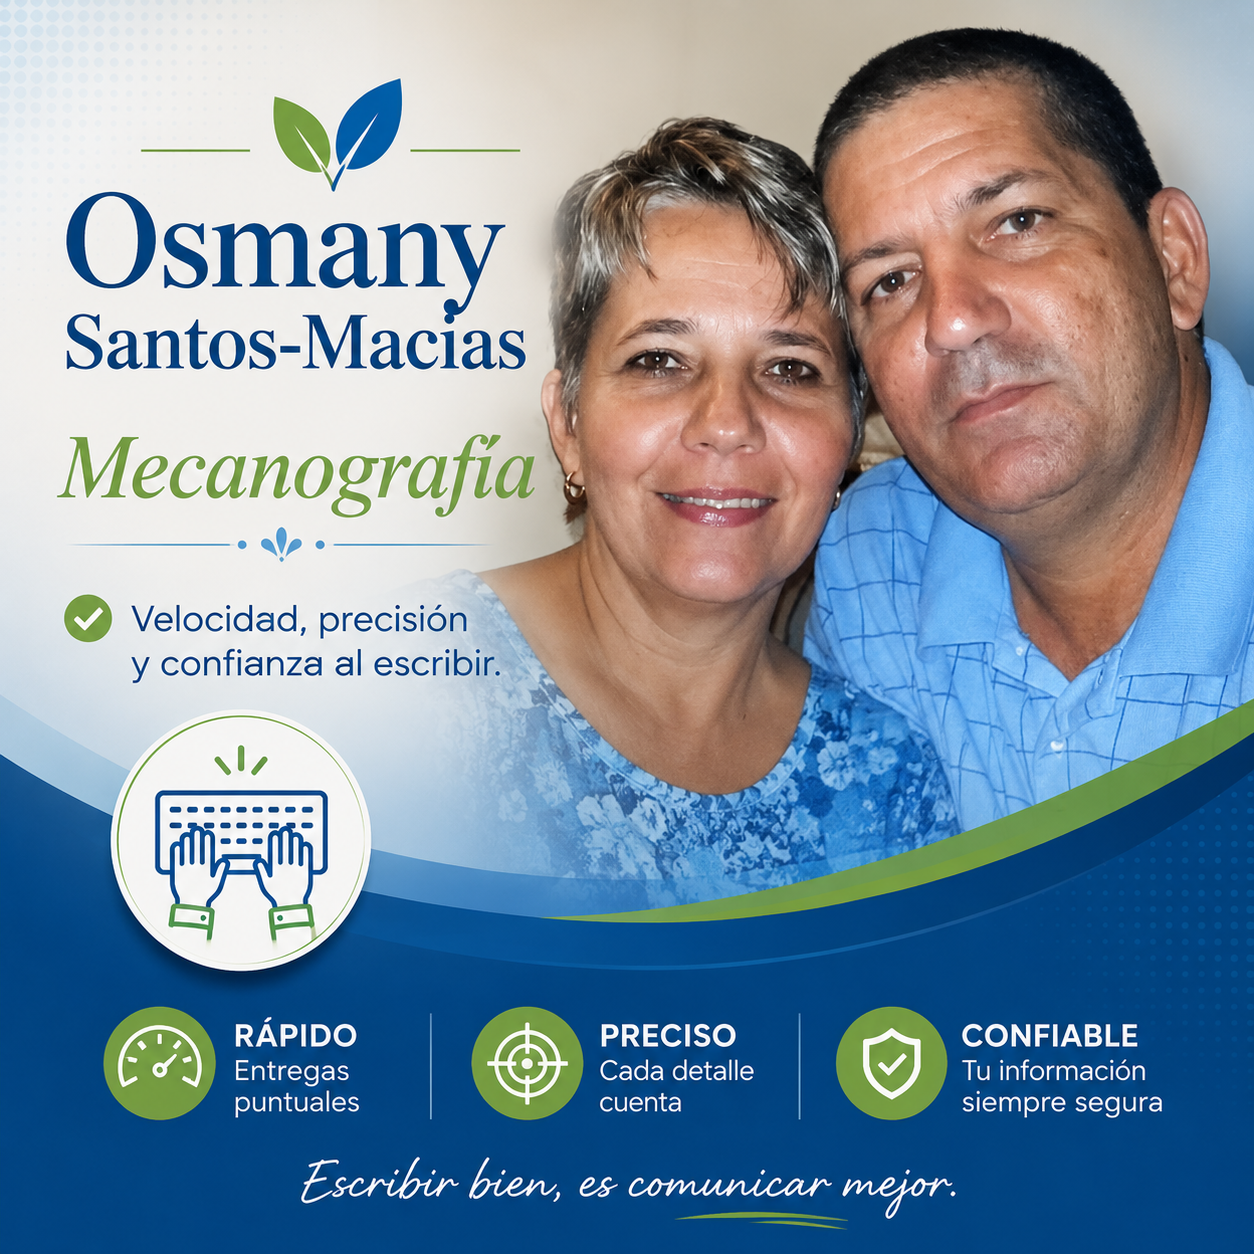
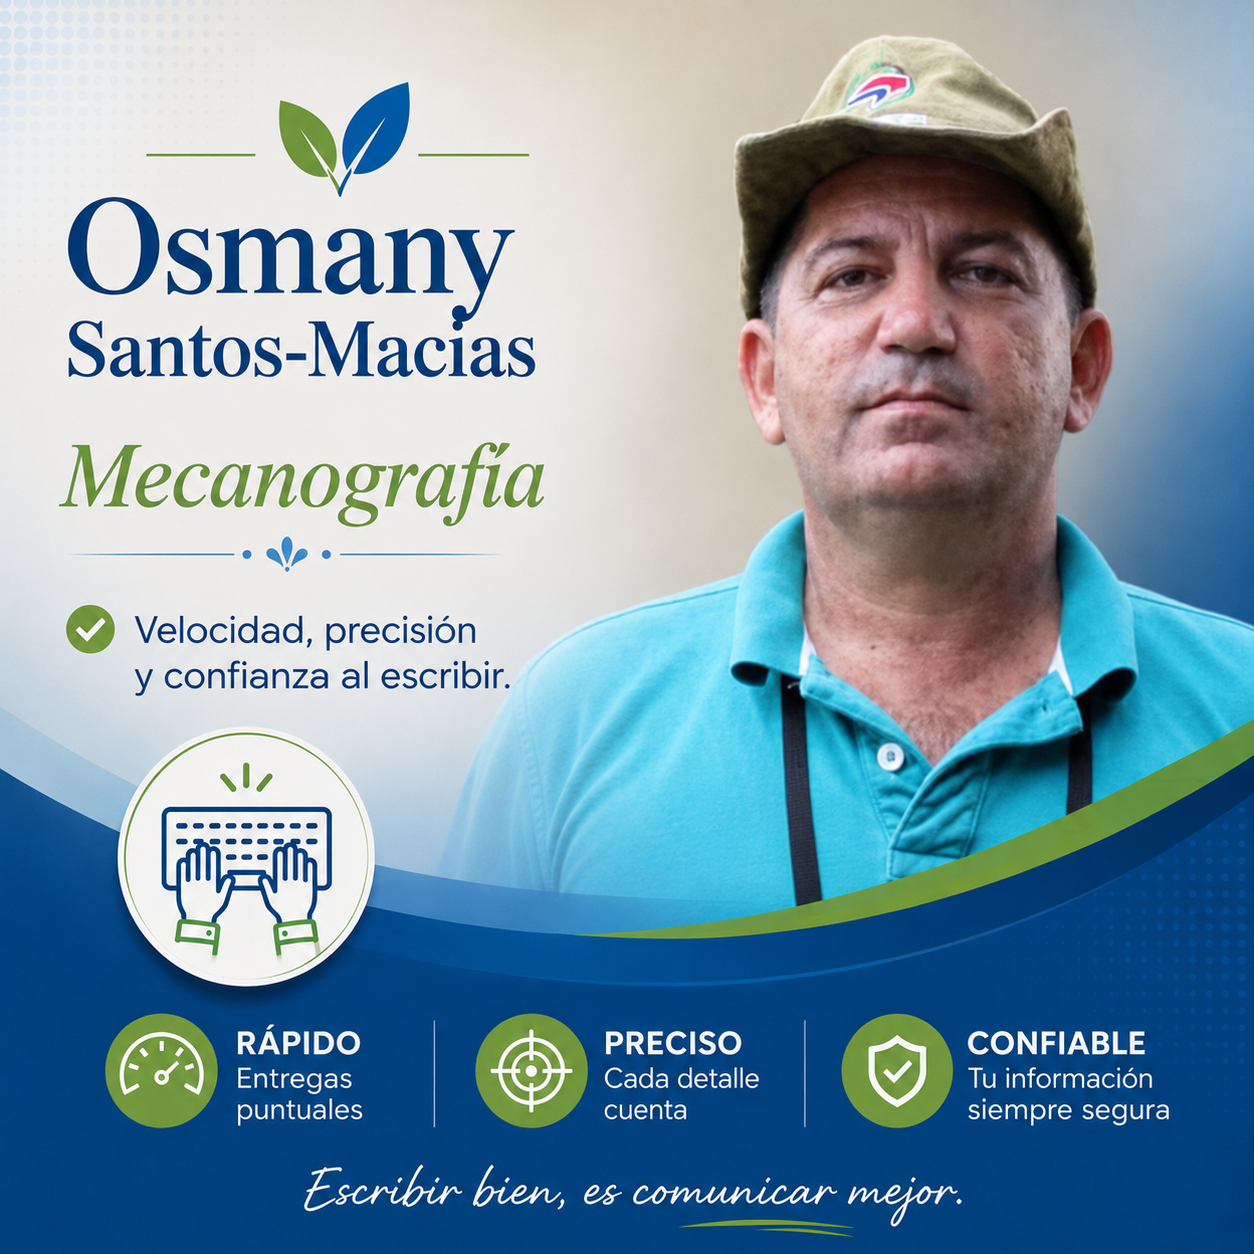
Update website

diff --git a/app/globals.css b/app/globals.css
@@ -25,3 +25,5 @@ main figure{overflow:hidden}main figure img{transition:transform .55s cubic-bezi
 .extra-services{padding-top:52px}.extra-services .detail-list{padding-top:25px}.extra-services .detail-list article{grid-template-columns:90px 1fr;gap:28px}.extra-services .detail-list p{max-width:880px;margin:8px 0}.extra-services .detail-list ul{display:flex;gap:8px;flex-wrap:wrap;list-style:none;padding:0;margin:18px 0 0}.extra-services .detail-list li{background:var(--cream);color:var(--green);padding:8px 11px;font-size:10px;font-weight:700}.extra-request{background:var(--ink);color:white;padding:58px 0}.extra-request .section-head p{color:#b7c2bc}.extra-faq{padding-top:55px}@media(max-width:560px){.extra-services .detail-list article{grid-template-columns:1fr;gap:12px}.extra-request{padding:48px 0}}
 .main-services{padding-top:52px}.main-services .detail-list{padding-top:25px}.main-services .detail-list article{grid-template-columns:90px 1fr;gap:28px}.main-services .detail-list p{max-width:880px;margin:8px 0}.main-services .detail-list ul{display:flex;gap:8px;flex-wrap:wrap;list-style:none;padding:0;margin:18px 0 8px}.main-services .detail-list li{background:var(--cream);color:var(--green);padding:8px 11px;font-size:10px;font-weight:700}.main-services .text-link{display:inline-block;margin-top:18px}.services-choice{background:var(--ink);color:white;padding:58px 0}.services-choice .section-head p{color:#b7c2bc}.services-request{padding-top:55px}.services-links{display:flex;gap:18px;flex-wrap:wrap;margin-top:4px}.services-links .button{margin-top:26px}@media(max-width:560px){.main-services .detail-list article{grid-template-columns:1fr;gap:12px}.services-choice{padding:48px 0}}
 .donation-intro{display:grid;grid-template-columns:.85fr 1.15fr;gap:55px;align-items:center;padding:48px 0}.donation-intro figure{margin:0}.donation-intro img{width:100%;display:block;aspect-ratio:1;object-fit:cover}.donation-intro figcaption{font-size:9px;color:var(--muted);margin-top:8px}.donation-intro h2,.donation-use h2,.donation-methods h2{font:600 clamp(40px,5vw,58px)/.98 var(--font-editorial);margin:16px 0}.donation-intro p{color:var(--muted);font-size:14px;line-height:1.7}.donation-goal{background:var(--cream);border-left:6px solid var(--red);padding:22px;margin-top:22px;display:grid;grid-template-columns:auto 1fr;gap:4px 18px}.donation-goal small{grid-column:1/-1;color:var(--red);font-size:9px;font-weight:800;text-transform:uppercase;letter-spacing:.12em}.donation-goal strong{font:700 40px var(--font-editorial)}.donation-goal span{font-size:12px;line-height:1.5;align-self:center}.donation-use,.donation-methods{background:var(--ink);color:white;padding:58px 0}.donation-use .section-head p,.donation-methods .section-head p{color:#b7c2bc}.donation-resource-grid{display:grid;grid-template-columns:repeat(4,1fr);gap:1px;background:#ffffff28;margin-top:34px}.donation-resource-grid article{padding:26px;background:var(--ink)}.donation-resource-grid span,.method-grid>article>span{color:#f1c75b;font:10px var(--font-geist-mono);text-transform:uppercase}.donation-resource-grid h3,.method-grid h3,.transparency-grid h3{font:600 27px/1.05 var(--font-editorial);margin:18px 0 10px}.donation-resource-grid p,.method-grid p{color:#b7c2bc;font-size:12px;line-height:1.65}.amount-buttons{display:flex;gap:12px;flex-wrap:wrap;margin-top:34px}.amount-buttons button{border:1px solid #c3bba9;background:#ded8c8;color:#78756d;padding:16px 20px;font-size:12px;font-weight:800;cursor:not-allowed}.payment-pending{background:var(--cream);border-left:5px solid var(--red);padding:20px;margin-top:22px;font-size:12px;line-height:1.65}.payment-pending strong{color:var(--red)}.method-grid{display:grid;grid-template-columns:1fr 1fr;gap:18px;margin-top:34px}.method-grid article{border:1px solid #ffffff28;padding:28px}.method-grid b{display:block;color:#f1c75b;font-size:11px;margin-top:18px}.transparency-grid{display:grid;grid-template-columns:repeat(3,1fr);gap:18px;margin-top:34px}.transparency-grid article{background:var(--cream);padding:25px}.transparency-grid p{color:var(--muted);font-size:13px;line-height:1.65}.donation-legal{margin-top:24px;background:var(--ink);color:white;padding:28px;border-left:6px solid #f1c75b}.donation-legal strong{color:#f1c75b;text-transform:uppercase;font-size:10px;letter-spacing:.12em}.donation-legal p{font-size:13px;line-height:1.7;max-width:900px}@media(max-width:850px){.donation-intro{grid-template-columns:1fr}.donation-resource-grid{grid-template-columns:1fr 1fr}.transparency-grid{grid-template-columns:1fr}}@media(max-width:560px){.donation-resource-grid,.method-grid{grid-template-columns:1fr}.donation-intro{padding:38px 0}.donation-use,.donation-methods{padding:48px 0}.amount-buttons button{flex:1 1 130px}}
+
+.paypal-support{display:grid;grid-template-columns:1.2fr .8fr;gap:60px;align-items:center}.paypal-copy h2{font:600 clamp(40px,5vw,58px)/.98 var(--font-editorial);margin:16px 0}.paypal-copy>p{color:var(--muted);font-size:14px;line-height:1.7}.paypal-copy ol{margin:25px 0;padding:0;list-style:none;counter-reset:paypal-step}.paypal-copy li{counter-increment:paypal-step;border-top:1px solid var(--line);padding:15px 0 15px 48px;position:relative;font-size:13px;line-height:1.55}.paypal-copy li:before{content:counter(paypal-step);position:absolute;left:0;top:12px;width:29px;height:29px;border-radius:50%;display:grid;place-items:center;background:var(--red);color:#ffe28a;font-weight:800}.paypal-safety{background:var(--cream);border-left:5px solid var(--red);padding:18px 20px}.paypal-safety strong{color:var(--red)}.paypal-qr{margin:0;background:#172f8f;padding:clamp(18px,3vw,32px);box-shadow:12px 12px 0 var(--cream);text-align:center}.paypal-qr img{display:block;width:min(100%,360px);margin:auto;aspect-ratio:337/347;object-fit:contain}.paypal-qr figcaption{color:white;font-size:11px;line-height:1.5;margin-top:15px}.paypal-qr:hover img,.paypal-qr:focus-within img{transform:none;filter:none}@media(max-width:750px){.paypal-support{grid-template-columns:1fr;gap:35px}.paypal-qr{max-width:430px;width:100%;margin:auto}}

diff --git a/app/donaciones/page.tsx b/app/donaciones/page.tsx
@@ -8,8 +8,6 @@ const resources=[
   ["04","Baterías de respaldo","Baterías y soluciones de energía que permitan continuar durante los cortes eléctricos."]
 ];
 
-const amounts=["US$5","US$10","US$25","US$50"];
-
 export default function Donaciones(){return <Shell>
   <PageHero kicker="Contribución voluntaria" title="Ayúdanos a mantener el servicio."><p>Nuestro pequeño negocio trabaja para ofrecer mecanografía, impresión y digitalización útiles y accesibles en Cienfuegos. Su apoyo monetario ayuda a enfrentar el alto costo y la escasez de materiales y equipos.</p></PageHero>
 
@@ -17,9 +15,7 @@ export default function Donaciones(){return <Shell>
 
   <section className="donation-use"><div className="wrap"><div className="section-head"><div><span className="kicker light">Uso de los aportes</span><h2>¿En qué se utilizará el dinero?</h2></div><p>El objetivo es fortalecer los recursos esenciales para mecanografiar, imprimir, copiar y digitalizar documentos.</p></div><div className="donation-resource-grid">{resources.map(resource=><article key={resource[0]}><span>{resource[0]}</span><h3>{resource[1]}</h3><p>{resource[2]}</p></article>)}</div></div></section>
 
-  <section className="section wrap donation-amounts"><div className="section-head"><div><span className="kicker">Tu ayuda hace la diferencia</span><h2>Seleccione una cantidad.</h2></div><p>Cada aporte, sin importar su tamaño, ayuda a mantener los equipos funcionando y a continuar atendiendo a la comunidad.</p></div><div className="amount-buttons" aria-label="Cantidades sugeridas">{amounts.map(amount=><button type="button" disabled title="El enlace seguro de pago se añadirá próximamente" key={amount}>Donar {amount}</button>)}<button type="button" disabled title="El enlace seguro de pago se añadirá próximamente">Elegir otra cantidad</button></div><p className="payment-pending"><strong>Enlaces seguros pendientes de activación.</strong> Los botones se habilitarán cuando estén disponibles los enlaces comerciales de Stripe y PayPal. Nunca envíe datos de tarjeta por correo electrónico o mensajería.</p></section>
-
-  <section className="donation-methods"><div className="wrap"><div className="section-head"><div><span className="kicker light">Métodos previstos</span><h2>Pago seguro fuera de este sitio.</h2></div><p>La página no almacenará números de tarjeta ni información bancaria. Cada opción abrirá la página segura del procesador seleccionado.</p></div><div className="method-grid"><article><span>Recomendado</span><h3>Tarjeta mediante Stripe</h3><p>Stripe Payment Links permite usar una página alojada por Stripe y aceptar aportes de cantidad fija o elegida por la persona que contribuye.</p><b>Enlace comercial pendiente</b></article><article><span>Alternativa</span><h3>PayPal</h3><p>PayPal permite crear un enlace o botón para recibir apoyo y ofrece opciones de pago mediante PayPal o tarjetas compatibles.</p><b>Enlace comercial pendiente</b></article></div></div></section>
+  <section className="section wrap paypal-support"><div className="paypal-copy"><span className="kicker">Tu ayuda hace la diferencia</span><h2>Apoya mediante PayPal.</h2><p>Cada aporte, sin importar su tamaño, ayuda a mantener los equipos funcionando y a continuar atendiendo a la comunidad.</p><ol><li>Abra la cámara de su teléfono o la aplicación de PayPal.</li><li>Escanee el código QR.</li><li>Elija en PayPal la cantidad que desea aportar y confirme los datos antes de enviar.</li></ol><p className="paypal-safety"><strong>Pago protegido fuera de este sitio.</strong> Esta página no solicita ni almacena números de tarjeta, claves, correos de acceso ni información bancaria.</p></div><figure className="paypal-qr"><img src="/paypal-apoyo-qr.png" alt="Código QR de PayPal para realizar una contribución voluntaria"/><figcaption>Escanee con la cámara de su teléfono para abrir PayPal.</figcaption></figure></section>
 
   <section className="section wrap transparency"><div className="section-head"><div><span className="kicker">Transparencia</span><h2>Un compromiso claro con cada aporte.</h2></div><p>Los ingresos y las comisiones del procesador deben registrarse en la contabilidad del negocio y clasificarse con orientación profesional cuando corresponda.</p></div><div className="transparency-grid"><article><h3>Uso relacionado con el servicio</h3><p>Los fondos se aplicarán a papel, tinta, impresoras, reparaciones, mantenimiento, baterías y otras soluciones necesarias para continuar trabajando.</p></article><article><h3>Actualizaciones</h3><p>Se compartirán noticias sobre compras y mejoras importantes realizadas gracias a las contribuciones recibidas.</p></article><article><h3>Sin ventajas especiales</h3><p>Contribuir no genera prioridad, descuentos, servicios gratuitos ni beneficios especiales. Los trabajos contratados se cotizan y pagan por separado.</p></article></div><aside className="donation-legal"><strong>Aviso importante</strong><p>Este es un aporte monetario voluntario para apoyar un pequeño negocio privado. No constituye una donación benéfica deducible de impuestos y no se emitirá un recibo fiscal oficial. El aporte no sustituye el pago de ningún servicio contratado.</p></aside></section>
 
